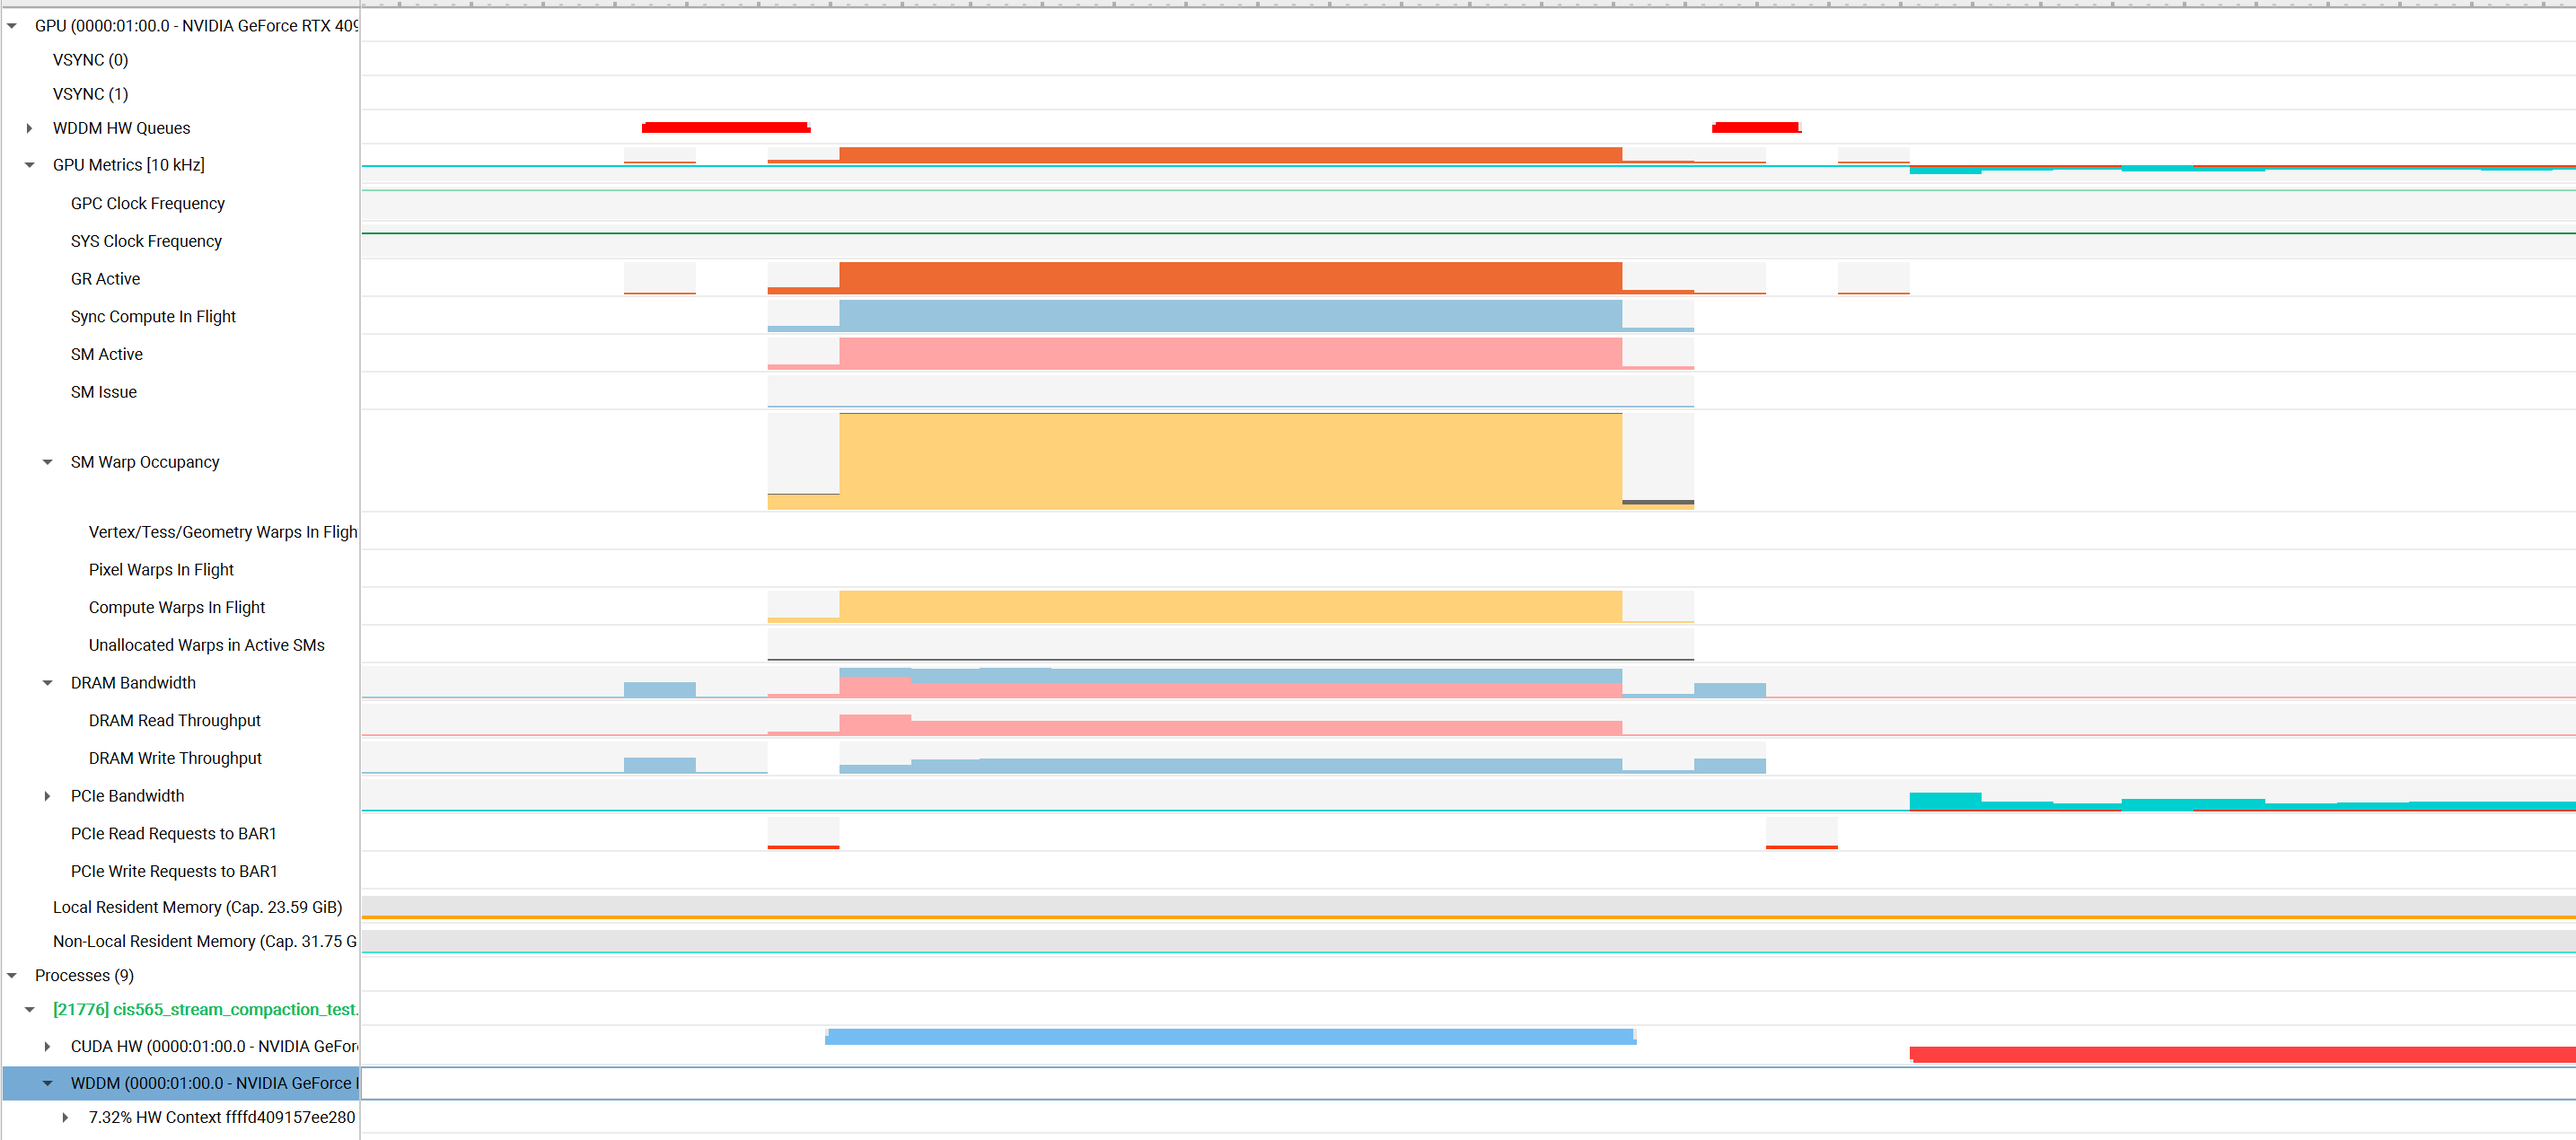
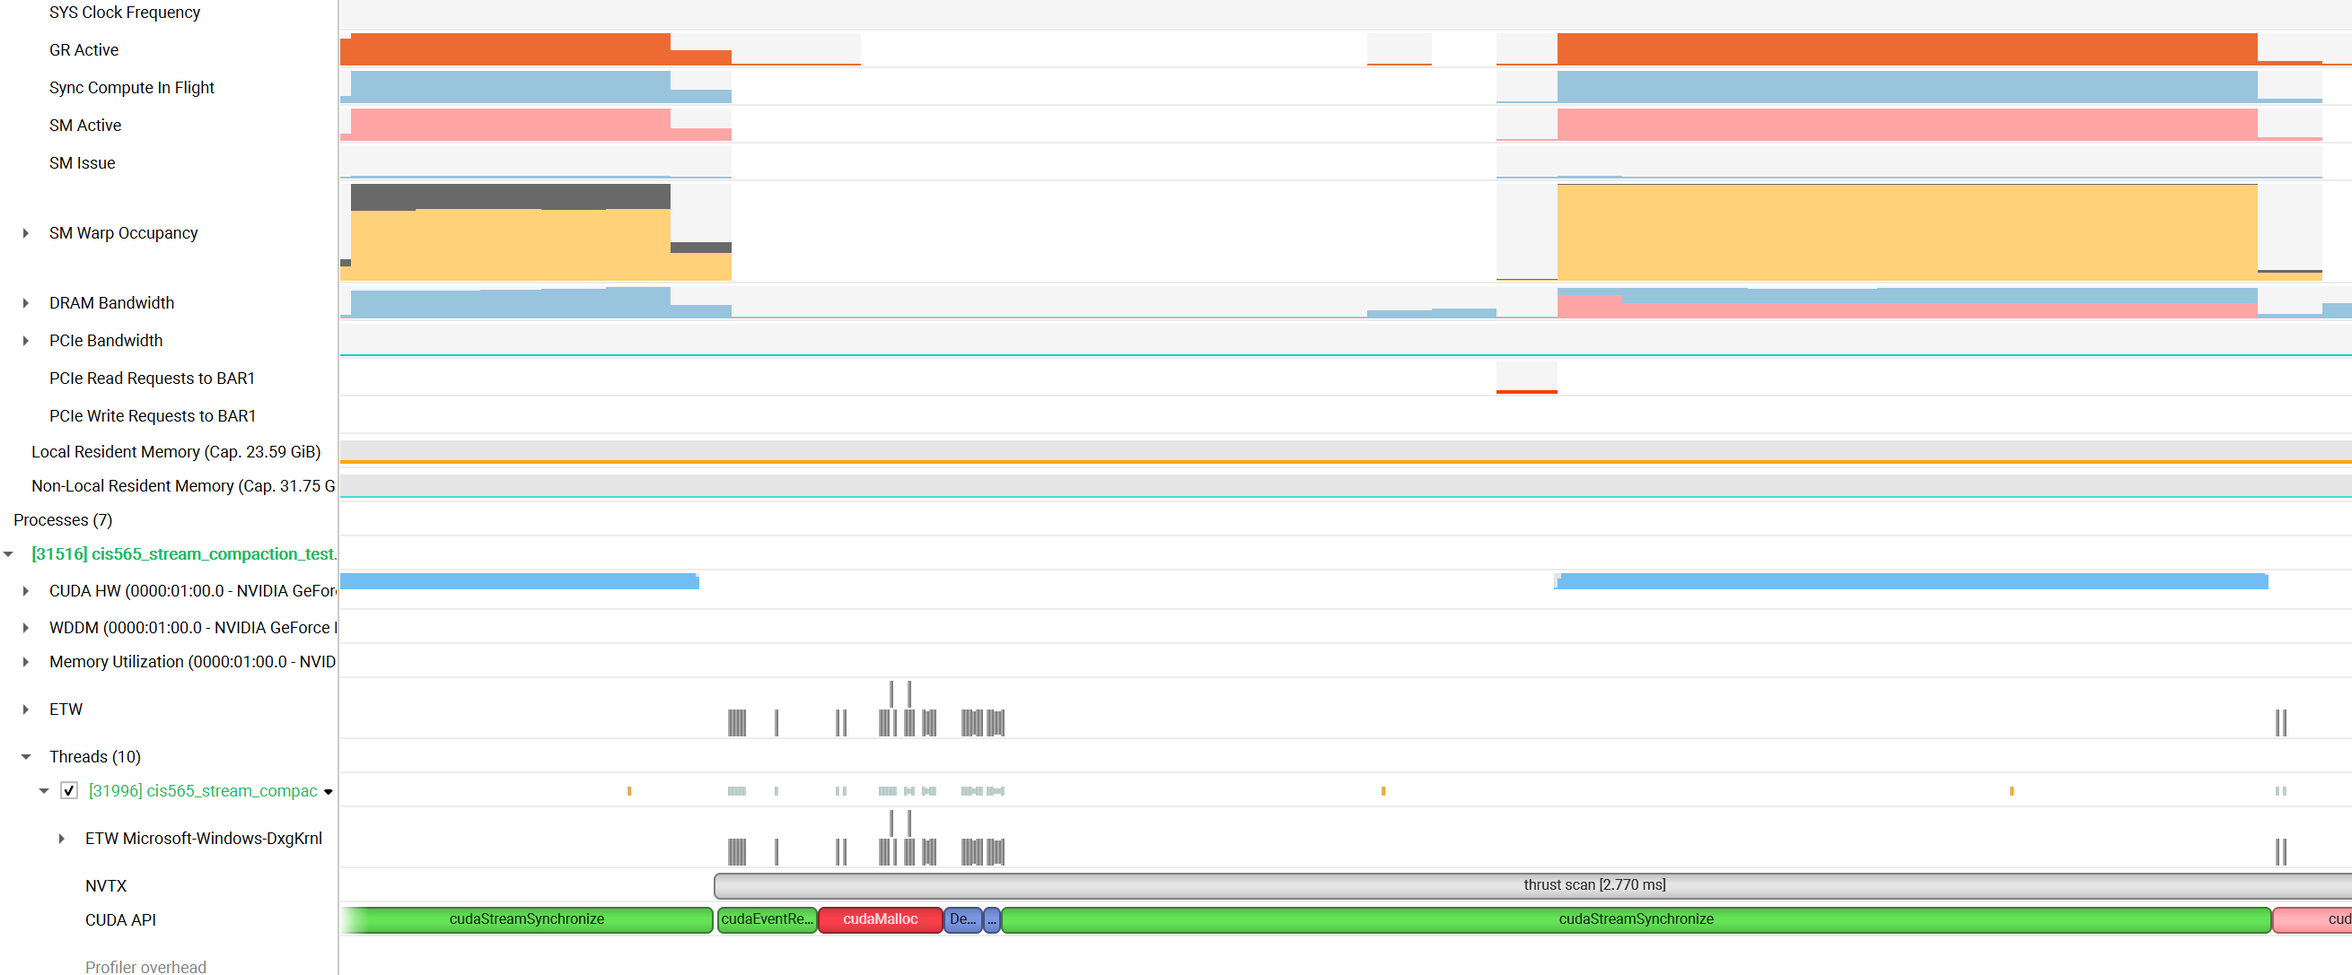
update readme

diff --git a/README.md b/README.md
@@ -18,14 +18,51 @@ To make it clear, scan here refers to calculate the prefix sum of an array, whet
 - GPU Scan Using Shared Memory 
 #### Features to be included
 - bank conflict reduce
-- add Nsight Performance Analysis at readme
+- more Nsight Performance Analysis
 ### Feature Details
+#### CPU Scan & Stream Compaction
+CPU Scan is quite straight forward, use a for loop to compute the exclusive prefix sum, stream compaction in cpu is easy to write down, just to remove all zeros.
+#### GPU naive Scan 
+![](./img/figure-39-2.jpg)
+
+The algorithm performs O(n log2 n) addition operations while a sequential scan performs O(n) adds. So it's not very efficient.
+
+#### Work-Efficient GPU Scan & Stream Compaction
+This algorithm is based on the one presented by Blelloch (1990).\
+It performs O(n) operations for n datas, 2*(n - 1) adds and (n - 1) swaps. So it is considerably better for large arrays.
+**Up-Sweep**
+![](./img/39fig03.jpg)
+**Down-Sweep**
+
+Using scan method, we can do parrall stream compaction easily in the following way.
+![](./img/39fig10.jpg)
+
+#### But Why Work-Efficient GPU can be slower?
+Despite that the algorithm performs less operation, it run slow on GPU and can actually slower than naive scan implemention. Below is the reason:
+![](./img/part5.png)
+The left side is exactly the steps to scan in the algo mentioned above. It lanuches more threads than it actually needs and cause serious wrap divergence. All other finished threads are waiting the most time-cosuming one in the wrap. Also, for that single thread, it actually run more iterations than the naive scan, which cause the whole implementation slower.
+
+The solution is in the right: rearrange the thread index to avoid wrap divergence. Also, only launch the threads that has works, which mean dynamically reducing the threads and thus wraps in each iteration to save time.
+
+![](./img/figure-39-4.jpg)
+
+#### Radix Sort
+With scan implementation provided above, it is easy to implement radix sort with O(klog(n)). The following picture show one single sort iteration based on 1bit. For k bits number, there is k time sort iteration needed.
+![](./img/39fig14.jpg)
+
+I add module like radixsort.cu and test it in the main.cpp as well. Please check the output the output of the test program.
+
+#### GPU Scan Using Shared Memory
+The idea is to reduce the global memory access and reuse the data to compute to hide memory latency. To use share memory, we need do scan based on that shared memory block so the input has to be divided into blocks. After that, scan the array that stores the sum of each individual blocks and then add the responding the scanned sum to get the total scan across blocks. In my code, it is `scanshared` function in the efficient.cu
+![](./img/39fig06.jpg)
+
 ### Performance Analysis
 #### Find the optimized of each of implementation for minimal run time on GPU
 First, I choose array size = 2^26 to find the optimal block size. The reason is that stream generally comes in a large scale and if it is small size, then using cpu is rather fast. 
 
 #### Optimal block Size for GPU naive scan
 ![](./img/Native_GPU_Scan.png)
+
 The x-axis is the block size, which specifys how many threads are in a single block. The y-axis is executation time in ms.
 It shows that for native GPU scan, executation time drops drastically after block size increase to around 100 and the time do not change greatly from that scale. So any scale ranging from 100(128) to 1000(1024) is acceptable. I choose 512 blocks for the naive GPU scan
 
@@ -59,8 +96,16 @@ Global memory requests drop a lot and compute intensity increase.
 Bottleneck: algo implementation, compute compabitity
 
 ### Thrust scan
+From Nsigh System trace, I get stats like this. You can see that occupany has reach the max.
 ![](./img/thrust_analysis_1.png)
-The occupancy is full from the picuture. So it use full potential compute compabitity of hardware.
+
+Zoom up a little bit
+![](./img/thrust_analysis_2.png)
+From the picture above, thrust::exclusive_scan has the following functions calls: cudaEventRecord, cudaMalloc, DeviceScanInitKernel, DeviceScanKernel, cudaStreamSychronize, cudaFree, cudaEventRecord.
+
+![](./img/thrust_analysis_3.png)
+You can see that DeviceScanKernel do the scan actually and the Wrap occupancy approaches the limit.
+
 
 #### Output of the test program
 Input Array Size is 2^29
